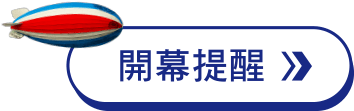
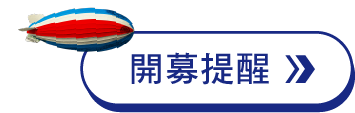
調整畫面

Changed region(s): [[0.0, 0.0, 0.9944, 1.0], [0.9322, 0.6486, 1.0, 0.8919], [0.9944, 0.5405, 1.0, 0.6216]]

diff --git a/css/style.css b/css/style.css
@@ -357,7 +357,7 @@ a:hover{
 .titlegp_colorgp:nth-child(1){
     width: 100%;
     height: 4px;
-    background-color: #DF2535; 
+    background-color: #2D5992;
 }
 .titlegp_colorgp:nth-child(2){
     width: 100%;
@@ -367,7 +367,7 @@ a:hover{
 .titlegp_colorgp:nth-child(3){
     width: 100%;
     height: 4px;
-    background-color: #2D5992; 
+    background-color: #DF2535;  
 }
 .S1_gp_mainpic{
     width: 30vw;
@@ -850,7 +850,7 @@ a:hover{
         position: fixed;
         width: 100vw;
         height: 90PX;
-        box-shadow:  0px -4px 0px 0px #182985, 0px -8px 0px 0px #FFF,0px -12px 0px 0px #DF2535;
+        box-shadow:  0px -4px 0px 0px #DF2535, 0px -8px 0px 0px #FFF,0px -12px 0px 0px #182985;
     }
     .overlay_btn1{
         width: 100%;

diff --git a/index.html b/index.html
@@ -347,7 +347,7 @@
 		</div>
 		<div class="overlay_btn2">
 			<img alt="" src="image/icon_shopcar.png">
-			<p class="btn_font blue">我要申請</p>
+			<p class="btn_font blue">我想申購</p>
 		</div>
 	</div>
 	<div class="overlay_top" id="scrollToTopButton" onclick="scrollToTop()"><img alt="" src="image/top.jpg"></div>
